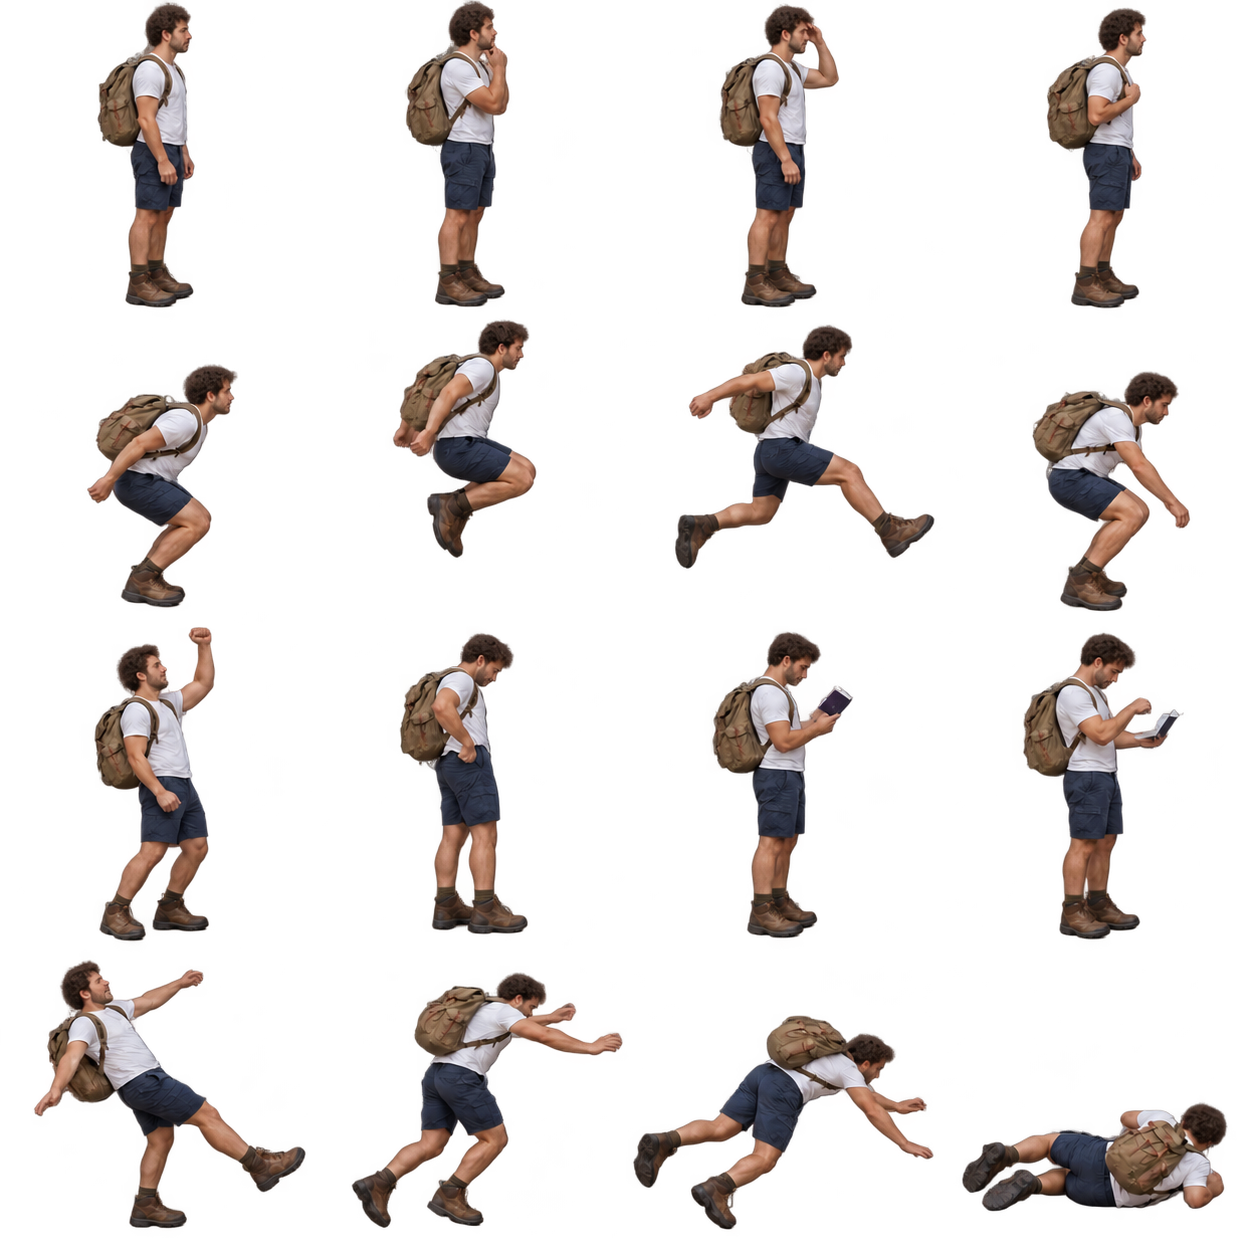
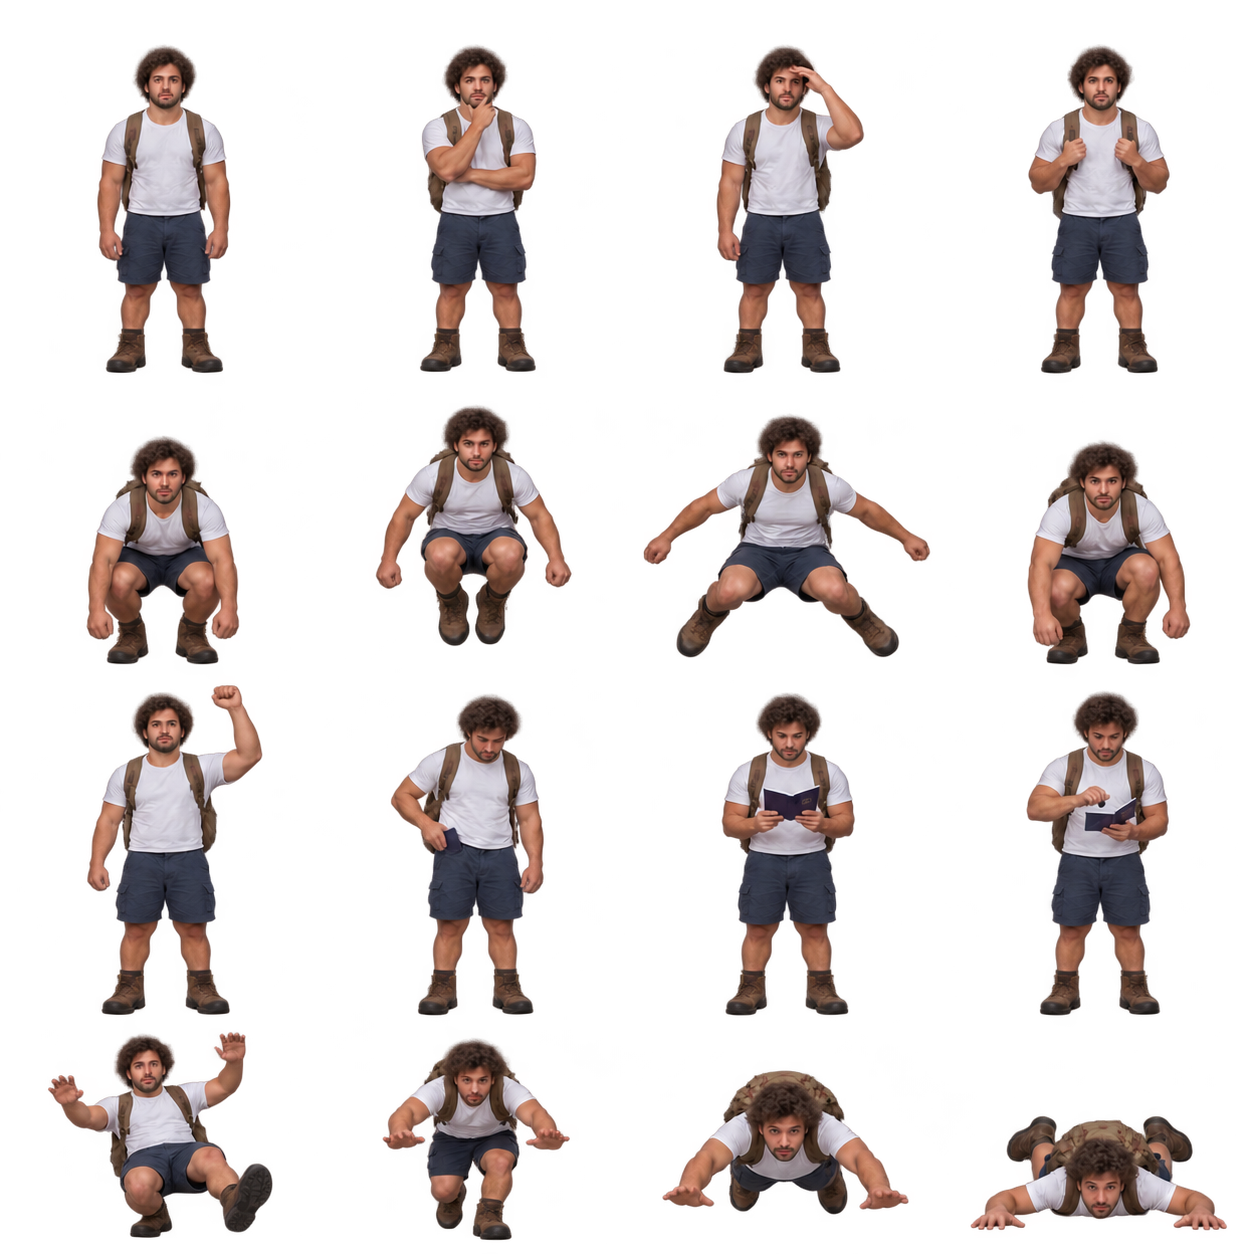
Face jumping-game explorers forward

diff --git a/docs/realistic-graphics.md b/docs/realistic-graphics.md
@@ -9,8 +9,8 @@ The user requested realistic graphics throughout the game. This pass replaces th
 | `assets/realistic/details/scenery-00.png` through `scenery-68.png` | 69 four-cell atlases: 276 distinct destination scenes, approximately 512×768 per scene |
 | `assets/realistic/backdrops/{FR,TR,US,JP,EG,AF}.png` | Six dedicated full-resolution portrait scenes |
 | `assets/realistic/explorer.png` | Adult arcade explorer, planted side-profile idle/walk/shoot/death poses |
-| `assets/realistic/memory-explorer.png` | Adult memory-game thinking, jump, celebration, passport and fall poses |
-| `assets/realistic/robot-explorer.png` | Kids explorer with physically textured metal, rubber, canvas and matching memory poses |
+| `assets/realistic/memory-explorer.png` | Front-facing adult memory-game thinking, jump, celebration, passport and fall poses |
+| `assets/realistic/robot-explorer.png` | Front-facing Kids explorer with physically textured metal, rubber, canvas and matching memory poses |
 | `assets/realistic/objects.png` | Three latex balloon colors, brass boss, anonymous sealed capsule and three weapon/projectile sprites |
 | `assets/realistic/materials.png` | Limestone, sandstone, frosted ice and oak surfaces |
 | `assets/realistic/medals.png` | Bronze, silver and gold compass medallions |
@@ -49,3 +49,13 @@ The selected source images remain lossless. Material mipmap generation follows [
 Latest local native project: `/private/tmp/passport-native-realistic/PassportRun.xcodeproj`. Current build is unsigned. The packaged game is `PassportRun.pck`; `tools/verify_exported_art.gd` verifies all 282 backdrops, the eight shared realistic assets, four textured 3D surfaces, alignment data and actual menu startup. It also checks that the superseded illustrated cover is absent. Physical-device acceptance remains pending.
 
 Selected previews: [arcade play](../artifacts/realistic-gameplay.png), [bounce boss](../artifacts/realistic-bounce-boss.png), [destination result](../artifacts/realistic-destination-results.png), [memory path](../artifacts/realistic-memory-france.png), [Kids explorer](../artifacts/realistic-kids-explorer.png), [landscape controls](../artifacts/realistic-large-landscape-controls.png).
+
+## Jumping-game facing correction
+
+The user requested the jumping-game character face forward rather than sideways. Both memory-game sheets now face the viewer throughout standing, jumping, landing, celebration, passport and falling poses. The balloon-game sheet remains side-facing. The built-in image generator edited the two PNGs in place; [the submitted prompts](jumping-character-prompts.json) record the original reference commit and edits.
+
+`resources/jumping-explorer.json` measures the 32 complete silhouettes. `Traveler.align_portrait()` selects each measured pose and places its boots at the local ground level, preserving the existing frame numbers and actual game jump motion. This prevents clipping and neighboring-frame fragments where the generated standing poses cross a nominal grid boundary. Alpha analysis wrote coordinate data without modifying any PNG pixels. The data is explicitly included in export.
+
+Current preview: [front-facing mid-jump](../artifacts/realistic-memory-front-jump.png). The previous Xcode app build predates this orientation correction.
+
+Facing-correction verification passed 53 animation/timer checks both headlessly and rendered, 208 polish checks, actual standing/mid-jump/Kids/Infinite captures, and 582 standalone checks of `/private/tmp/passport-front-facing.pck`. No balloon-game source or sprite was changed.

diff --git a/README.md b/README.md
@@ -121,4 +121,4 @@ Balloon bosses rotate between warned sweep charges, high bounces and summoner wa
 
 **BALLOON DAILY GOALS** tracks 30 pops, one defeated boss and one destination cleared without collecting drops; goals reset at UTC midnight. **MYSTERY-DROP JOURNAL** reveals an effect only after its drop is collected during a tour. **DESTINATION MASTERY** shows medals for stamped places. Practice remains separate from these saved rewards. Pause or Settings can put FIRE on the left and enlarge touch targets from 72 to 88 pixels; preferences persist.
 
-The graphics pass supplies separate photorealistic scenery for all 282 destinations, realistic side-profile explorer animation, latex balloons, armored brass bosses, sealed mystery capsules, weapon sprites, metal medals, natural path materials and new menu/Infinite scenery. The character remains planted and side-facing during arcade walking and turns. Next-stop scenery still stays hidden until the current destination is cleared. Assets are generated imagery, and the game remains a 2D/3D hybrid. See [asset inventory, exact prompts and verification](docs/realistic-graphics.md). Physical iPhone visual/performance acceptance remains pending.
+The graphics pass supplies separate photorealistic scenery for all 282 destinations, realistic side-profile arcade and front-facing jumping-game explorer animation, latex balloons, armored brass bosses, sealed mystery capsules, weapon sprites, metal medals, natural path materials and new menu/Infinite scenery. The character remains planted and side-facing during arcade walking and turns. Next-stop scenery still stays hidden until the current destination is cleared. Assets are generated imagery, and the game remains a 2D/3D hybrid. See [asset inventory, exact prompts and verification](docs/realistic-graphics.md). Physical iPhone visual/performance acceptance remains pending.

diff --git a/HANDOFF.md b/HANDOFF.md
@@ -1,5 +1,9 @@
 # Passport Run — agent handoff (2026-10-03)
 
+## Latest correction: jumping characters face forward
+
+The jumping/memory game uses front-facing human and Kids robot sheets. Balloon Arcade keeps its separate side-facing explorer. `Traveler.align_portrait()` uses measured full-pose bounds from `resources/jumping-explorer.json` to avoid clipping generated frames and align boots. Existing pose indices and jump/scoring rules remain. The bounds JSON is explicitly included in iPhone export. Built-in edit prompts are in `docs/jumping-character-prompts.json`; preview is `artifacts/realistic-memory-front-jump.png`. Headless/rendered animation checks passed 53 each, polish passed 208, and the new `/private/tmp/passport-front-facing.pck` passed 582 exported-artwork/startup checks. Previous native Xcode builds predate this correction.
+
 ## Current continuation: mastery and photorealistic graphics
 
 This section supersedes older illustrated-art descriptions below. The user approved all six proposed features plus a strong realistic graphics pass. `ArcadeProgress` defines three medal tiers, three UTC daily goals and the 22-entry mystery journal. `PlayerProfile` atomically saves validated medals per destination/difficulty/solo-co-op, bounded goal counts, revealed drop keys and touch preferences. Practice does not award any of these. Old checkpoints are compatible: missing country time is -1, so legacy destinations cannot retroactively earn Silver/Gold.
